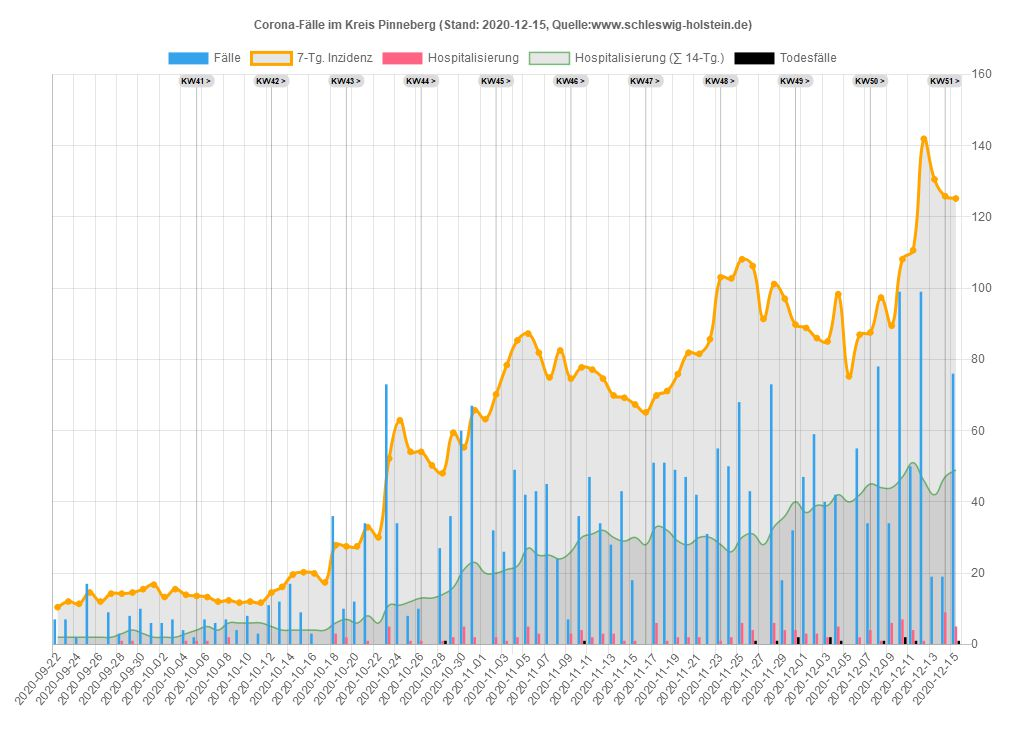
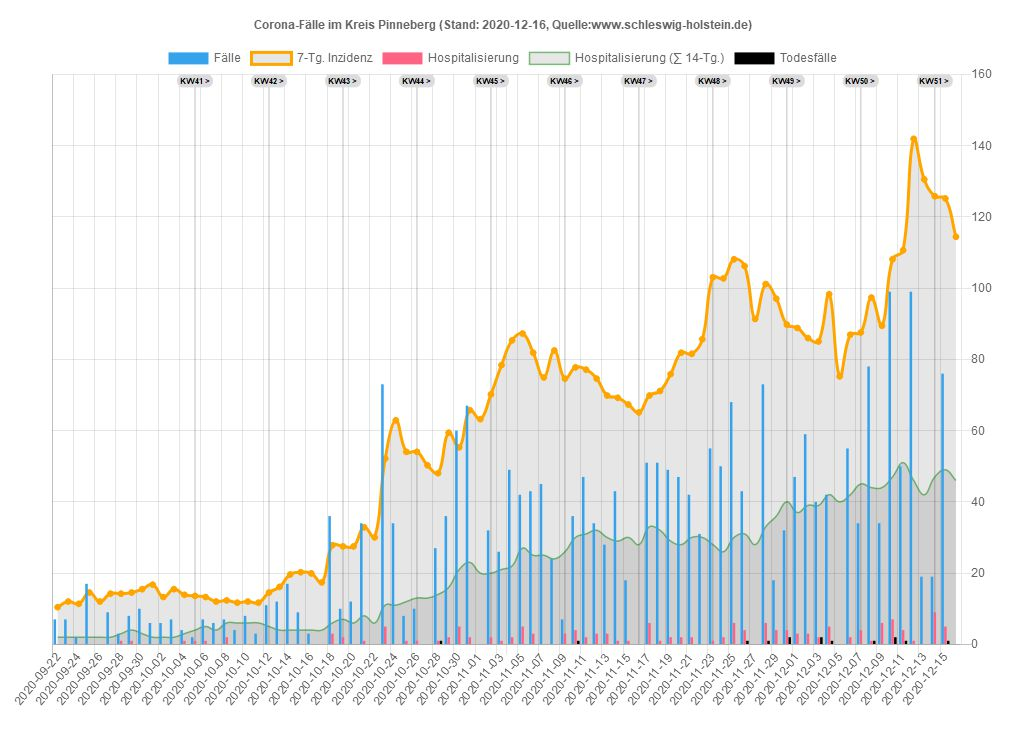
16.12.2020 21:26:17,47

diff --git a/sh/Data_SH.js b/sh/Data_SH.js
@@ -1,33 +1,33 @@
 var chdata={
-labels: ["2020-09-22","2020-09-23","2020-09-24","2020-09-25","2020-09-26","2020-09-27","2020-09-28","2020-09-29","2020-09-30","2020-10-01","2020-10-02","2020-10-03","2020-10-04","2020-10-05","2020-10-06","2020-10-07","2020-10-08","2020-10-09","2020-10-10","2020-10-11","2020-10-12","2020-10-13","2020-10-14","2020-10-15","2020-10-16","2020-10-17","2020-10-18","2020-10-19","2020-10-20","2020-10-21","2020-10-22","2020-10-23","2020-10-24","2020-10-25","2020-10-26","2020-10-27","2020-10-28","2020-10-29","2020-10-30","2020-10-31","2020-11-01","2020-11-02","2020-11-03","2020-11-04","2020-11-05","2020-11-06","2020-11-07","2020-11-08","2020-11-09","2020-11-10","2020-11-11","2020-11-12","2020-11-13","2020-11-14","2020-11-15","2020-11-16","2020-11-17","2020-11-18","2020-11-19","2020-11-20","2020-11-21","2020-11-22","2020-11-23","2020-11-24","2020-11-25","2020-11-26","2020-11-27","2020-11-28","2020-11-29","2020-11-30","2020-12-01","2020-12-02","2020-12-03","2020-12-04","2020-12-05","2020-12-06","2020-12-07","2020-12-08","2020-12-09","2020-12-10","2020-12-11","2020-12-12","2020-12-13","2020-12-14","2020-12-15"],
+labels: ["2020-09-22","2020-09-23","2020-09-24","2020-09-25","2020-09-26","2020-09-27","2020-09-28","2020-09-29","2020-09-30","2020-10-01","2020-10-02","2020-10-03","2020-10-04","2020-10-05","2020-10-06","2020-10-07","2020-10-08","2020-10-09","2020-10-10","2020-10-11","2020-10-12","2020-10-13","2020-10-14","2020-10-15","2020-10-16","2020-10-17","2020-10-18","2020-10-19","2020-10-20","2020-10-21","2020-10-22","2020-10-23","2020-10-24","2020-10-25","2020-10-26","2020-10-27","2020-10-28","2020-10-29","2020-10-30","2020-10-31","2020-11-01","2020-11-02","2020-11-03","2020-11-04","2020-11-05","2020-11-06","2020-11-07","2020-11-08","2020-11-09","2020-11-10","2020-11-11","2020-11-12","2020-11-13","2020-11-14","2020-11-15","2020-11-16","2020-11-17","2020-11-18","2020-11-19","2020-11-20","2020-11-21","2020-11-22","2020-11-23","2020-11-24","2020-11-25","2020-11-26","2020-11-27","2020-11-28","2020-11-29","2020-11-30","2020-12-01","2020-12-02","2020-12-03","2020-12-04","2020-12-05","2020-12-06","2020-12-07","2020-12-08","2020-12-09","2020-12-10","2020-12-11","2020-12-12","2020-12-13","2020-12-14","2020-12-15","2020-12-16"],
 datasets: [
 {label: 'Fälle',
 type: 'bar',
 backgroundColor: window.chartColors.blue,
-data: [38,42,63,53,15,15,38,48,49,27,50,16,24,39,54,45,79,54,26,25,65,65,65,55,90,26,88,163,111,160,136,236,142,115,164,164,280,215,313,265,161,142,236,262,220,274,233,177,215,252,247,192,296,158,161,100,294,208,264,250,153,121,145,251,256,225,180,219,71,81,244,240,245,318,234,154,183,314,297,529,384,472,140,241,486]},
+data: [38,42,63,53,15,15,38,48,49,27,50,16,24,39,54,45,79,54,26,25,65,65,65,55,90,26,88,163,111,160,136,236,142,115,164,164,280,215,313,265,161,142,236,262,220,274,233,177,215,252,247,192,296,158,161,100,294,208,264,250,153,121,145,251,256,225,180,219,71,81,244,240,245,318,234,154,183,314,297,529,384,472,140,241,486,322]},
 {label: '7-Tg. Inzidenz',
 type: 'line',
 pointBackgroundColor: 'orange',
 borderColor: 'orange',
-data: [7.23197027,7.88629139,8.74724023,9.40156135,9.33268544,9.16049567,9.09161977,9.4359993,9.67706498,8.43729865,8.33398478,8.36842274,8.67836432,8.71280227,8.91943,8.78167818,10.5724518,10.7102036,11.0545831,11.0890211,11.9844079,12.3632254,13.0519844,12.2254735,13.4652399,13.4652399,15.634831,19.0097504,20.5938963,23.8655019,26.6549761,31.6829174,35.67772,36.6075447,36.6419827,38.4671942,42.5997487,45.320347,47.9720694,52.2079377,53.7920836,53.0344486,55.5139813,54.8940981,55.0662879,53.7232077,52.6211932,53.1722004,55.6861711,56.2371783,55.720609,54.7563463,55.5139813,52.9311348,52.3801275,48.4197628,49.8661569,48.5230767,51.0026094,49.4184635,49.2462737,47.8687556,49.4184635,47.9376315,49.5906533,48.2475731,45.8369163,48.1098213,46.3879236,44.1838945,43.9428289,43.3918216,44.0805807,48.8330183,49.3495876,52.2079377,55.720609,58.1312658,60.0942291,69.874608,72.1475129,80.3437459,79.8616145,81.8590158,87.7823439]},
+data: [7.23197027,7.88629139,8.74724023,9.40156135,9.33268544,9.16049567,9.09161977,9.4359993,9.67706498,8.43729865,8.33398478,8.36842274,8.67836432,8.71280227,8.91943,8.78167818,10.5724518,10.7102036,11.0545831,11.0890211,11.9844079,12.3632254,13.0519844,12.2254735,13.4652399,13.4652399,15.634831,19.0097504,20.5938963,23.8655019,26.6549761,31.6829174,35.67772,36.6075447,36.6419827,38.4671942,42.5997487,45.320347,47.9720694,52.2079377,53.7920836,53.0344486,55.5139813,54.8940981,55.0662879,53.7232077,52.6211932,53.1722004,55.6861711,56.2371783,55.720609,54.7563463,55.5139813,52.9311348,52.3801275,48.4197628,49.8661569,48.5230767,51.0026094,49.4184635,49.2462737,47.8687556,49.4184635,47.9376315,49.5906533,48.2475731,45.8369163,48.1098213,46.3879236,44.1838945,43.9428289,43.3918216,44.0805807,48.8330183,49.3495876,52.2079377,55.720609,58.1312658,60.0942291,69.874608,72.1475129,80.3437459,79.8616145,81.8590158,87.7823439,88.6432927]},
 {label: 'Hospitalisierung',
 type: 'bar',
 backgroundColor: window.chartColors.red,
-data: [1,2,7,1,0,0,2,1,3,1,1,0,4,3,1,1,4,2,0,3,5,1,1,2,4,0,9,10,8,9,12,7,5,6,7,7,11,10,11,6,3,9,19,20,15,15,5,7,13,15,21,13,17,8,17,13,23,10,15,9,7,7,13,16,26,19,12,14,15,10,12,8,10,14,3,5,24,13,26,20,14,12,6,26,27]},
+data: [1,2,7,1,0,0,2,1,3,1,1,0,4,3,1,1,4,2,0,3,5,1,1,2,4,0,9,10,8,9,12,7,5,6,7,7,11,10,11,6,3,9,19,20,15,15,5,7,13,15,21,13,17,8,17,13,23,10,15,9,7,7,13,16,26,19,12,14,15,10,12,8,10,14,3,5,24,13,26,20,14,12,6,26,27,16]},
 {label: 'Hosp. (∑ 14-Tg.)',
 type: 'line',
 borderColor: 'rgba(0,255,0,0.5)',
 borderWidth: 1.5,
 pointRadius: 0,
-data: [12,12,20,22,22,22,22,23,23,21,22,21,24,26,26,25,22,23,23,26,29,29,27,28,31,31,36,43,50,58,66,71,76,79,81,87,97,105,112,118,112,111,122,133,136,144,144,145,151,159,169,172,178,180,194,198,202,192,192,186,188,188,188,189,194,200,195,201,199,196,185,183,178,183,179,177,188,185,185,186,188,186,177,193,208]},
+data: [12,12,20,22,22,22,22,23,23,21,22,21,24,26,26,25,22,23,23,26,29,29,27,28,31,31,36,43,50,58,66,71,76,79,81,87,97,105,112,118,112,111,122,133,136,144,144,145,151,159,169,172,178,180,194,198,202,192,192,186,188,188,188,189,194,200,195,201,199,196,185,183,178,183,179,177,188,185,185,186,188,186,177,193,208,216]},
 {label: 'Aktuell im Krankenhaus',
 type: 'line',
 pointBackgroundColor: 'green',
 borderColor: 'green',
-data: [6,6,6,6,6,6,6,11,11,11,11,14,14,15,15,14,14,14,13,13,18,18,18,21,24,24,24,24,31,31,31,31,51,51,58,58,58,58,58,58,58,94,110,114,119,118,124,120,126,116,113,119,112,116,116,148,145,151,141,141,141,141,155,142,122,113,118,118,118,124,114,110,109,114,114,114,131,122,128,132,133,133,133,177,181]},
+data: [6,6,6,6,6,6,6,11,11,11,11,14,14,15,15,14,14,14,13,13,18,18,18,21,24,24,24,24,31,31,31,31,51,51,58,58,58,58,58,58,58,94,110,114,119,118,124,120,126,116,113,119,112,116,116,148,145,151,141,141,141,141,155,142,122,113,118,118,118,124,114,110,109,114,114,114,131,122,128,132,133,133,133,177,181,194]},
 {label: 'Todesfälle',
 type: 'bar',
 backgroundColor: 'black',
-data: [0,0,0,0,0,0,0,1,0,0,0,0,0,0,0,0,0,0,0,0,0,1,0,0,0,0,0,0,0,0,1,0,0,3,0,0,3,4,1,0,2,6,7,2,2,6,0,1,4,3,5,0,5,1,3,5,0,2,2,2,1,0,3,4,1,3,3,1,4,2,3,1,4,1,0,1,4,2,5,7,7,1,2,2,6]},
+data: [0,0,0,0,0,0,0,1,0,0,0,0,0,0,0,0,0,0,0,0,0,1,0,0,0,0,0,0,0,0,1,0,0,3,0,0,3,4,1,0,2,6,7,2,2,6,0,1,4,3,5,0,5,1,3,5,0,2,2,2,1,0,3,4,1,3,3,1,4,2,3,1,4,1,0,1,4,2,5,7,7,1,2,2,6,7]},
 ]};
 

diff --git a/sh/Data_SH_Alter.js b/sh/Data_SH_Alter.js
@@ -95,7 +95,8 @@ var chdata={
 				{x: '2020-12-12', y: 'Alle', v: 79.9304904, casesum: 2321},{x: '2020-12-12', y: '00-09', v: 48.6908017, casesum: 125},{x: '2020-12-12', y: '10-19', v: 103.258251, casesum: 285},{x: '2020-12-12', y: '20-29', v: 108.450378, casesum: 347},{x: '2020-12-12', y: '30-39', v: 95.8079556, casesum: 322},{x: '2020-12-12', y: '40-49', v: 87.949999, casesum: 310},{x: '2020-12-12', y: '50-59', v: 76.5036809, casesum: 379},{x: '2020-12-12', y: '60-69', v: 47.5889198, casesum: 173},{x: '2020-12-12', y: '70-79', v: 37.8466602, casesum: 112},{x: '2020-12-12', y: '80-89', v: 100.088346, casesum: 179},{x: '2020-12-12', y: '90+', v: 308.856191, casesum: 89},
 				{x: '2020-12-13', y: 'Alle', v: 79.5861109, casesum: 2311},{x: '2020-12-13', y: '00-09', v: 47.5222225, casesum: 122},{x: '2020-12-13', y: '10-19', v: 99.6351542, casesum: 275},{x: '2020-12-13', y: '20-29', v: 111.57575, casesum: 357},{x: '2020-12-13', y: '30-39', v: 96.1054959, casesum: 323},{x: '2020-12-13', y: '40-49', v: 89.6522571, casesum: 316},{x: '2020-12-13', y: '50-59', v: 76.3018242, casesum: 378},{x: '2020-12-13', y: '60-69', v: 45.3882761, casesum: 165},{x: '2020-12-13', y: '70-79', v: 37.8466602, casesum: 112},{x: '2020-12-13', y: '80-89', v: 97.2925823, casesum: 174},{x: '2020-12-13', y: '90+', v: 308.856191, casesum: 89},
 				{x: '2020-12-14', y: 'Alle', v: 81.5146363, casesum: 2367},{x: '2020-12-14', y: '00-09', v: 47.5222225, casesum: 122},{x: '2020-12-14', y: '10-19', v: 98.1859156, casesum: 271},{x: '2020-12-14', y: '20-29', v: 112.200824, casesum: 359},{x: '2020-12-14', y: '30-39', v: 103.544002, casesum: 348},{x: '2020-12-14', y: '40-49', v: 89.9359667, casesum: 317},{x: '2020-12-14', y: '50-59', v: 77.3111076, casesum: 383},{x: '2020-12-14', y: '60-69', v: 47.0387588, casesum: 171},{x: '2020-12-14', y: '70-79', v: 41.9016595, casesum: 124},{x: '2020-12-14', y: '80-89', v: 98.9700406, casesum: 177},{x: '2020-12-14', y: '90+', v: 329.677957, casesum: 95},
-				{x: '2020-12-15', y: 'Alle', v: 87.5412782, casesum: 2542},{x: '2020-12-15', y: '00-09', v: 56.0918036, casesum: 144},{x: '2020-12-15', y: '10-19', v: 105.432109, casesum: 291},{x: '2020-12-15', y: '20-29', v: 119.701715, casesum: 383},{x: '2020-12-15', y: '30-39', v: 107.709565, casesum: 362},{x: '2020-12-15', y: '40-49', v: 99.8658053, casesum: 352},{x: '2020-12-15', y: '50-59', v: 83.5686646, casesum: 414},{x: '2020-12-15', y: '60-69', v: 51.9902071, casesum: 189},{x: '2020-12-15', y: '70-79', v: 41.2258263, casesum: 122},{x: '2020-12-15', y: '80-89', v: 100.088346, casesum: 179},{x: '2020-12-15', y: '90+', v: 367.851194, casesum: 106}
+				{x: '2020-12-15', y: 'Alle', v: 87.5412782, casesum: 2542},{x: '2020-12-15', y: '00-09', v: 56.0918036, casesum: 144},{x: '2020-12-15', y: '10-19', v: 105.432109, casesum: 291},{x: '2020-12-15', y: '20-29', v: 119.701715, casesum: 383},{x: '2020-12-15', y: '30-39', v: 107.709565, casesum: 362},{x: '2020-12-15', y: '40-49', v: 99.8658053, casesum: 352},{x: '2020-12-15', y: '50-59', v: 83.5686646, casesum: 414},{x: '2020-12-15', y: '60-69', v: 51.9902071, casesum: 189},{x: '2020-12-15', y: '70-79', v: 41.2258263, casesum: 122},{x: '2020-12-15', y: '80-89', v: 100.088346, casesum: 179},{x: '2020-12-15', y: '90+', v: 367.851194, casesum: 106},
+				{x: '2020-12-16', y: 'Alle', v: 87.4035264, casesum: 2538},{x: '2020-12-16', y: '00-09', v: 57.2603828, casesum: 147},{x: '2020-12-16', y: '10-19', v: 102.895941, casesum: 284},{x: '2020-12-16', y: '20-29', v: 121.576937, casesum: 389},{x: '2020-12-16', y: '30-39', v: 107.412025, casesum: 361},{x: '2020-12-16', y: '40-49', v: 97.5961279, casesum: 344},{x: '2020-12-16', y: '50-59', v: 85.183518, casesum: 422},{x: '2020-12-16', y: '60-69', v: 52.8154485, casesum: 192},{x: '2020-12-16', y: '70-79', v: 41.2258263, casesum: 122},{x: '2020-12-16', y: '80-89', v: 101.206652, casesum: 181},{x: '2020-12-16', y: '90+', v: 333.148251, casesum: 96}
 			],
 			backgroundColor: function(context) {
 				return inzColor(context.dataset.data[context.dataIndex].v)
@@ -103,7 +104,7 @@ var chdata={
 			width: function(context) {
 				const a = context.chart.chartArea
 				if (!a) return 0
-				return (a.right - a.left) / 92.5
+				return (a.right - a.left) / 93.5
 			},
 			height: function(context) {
 				const a = context.chart.chartArea
@@ -115,7 +116,7 @@ var chdata={
 	options: {
 		legend: { display: false },
 		scales: {
-			xAxes: [{type: 'category', labels: ["2020-09-15","2020-09-16","2020-09-17","2020-09-18","2020-09-19","2020-09-20","2020-09-21","2020-09-22","2020-09-23","2020-09-24","2020-09-25","2020-09-26","2020-09-27","2020-09-28","2020-09-29","2020-09-30","2020-10-01","2020-10-02","2020-10-03","2020-10-04","2020-10-05","2020-10-06","2020-10-07","2020-10-08","2020-10-09","2020-10-10","2020-10-11","2020-10-12","2020-10-13","2020-10-14","2020-10-15","2020-10-16","2020-10-17","2020-10-18","2020-10-19","2020-10-20","2020-10-21","2020-10-22","2020-10-23","2020-10-24","2020-10-25","2020-10-26","2020-10-27","2020-10-28","2020-10-29","2020-10-30","2020-10-31","2020-11-01","2020-11-02","2020-11-03","2020-11-04","2020-11-05","2020-11-06","2020-11-07","2020-11-08","2020-11-09","2020-11-10","2020-11-11","2020-11-12","2020-11-13","2020-11-14","2020-11-15","2020-11-16","2020-11-17","2020-11-18","2020-11-19","2020-11-20","2020-11-21","2020-11-22","2020-11-23","2020-11-24","2020-11-25","2020-11-26","2020-11-27","2020-11-28","2020-11-29","2020-11-30","2020-12-01","2020-12-02","2020-12-03","2020-12-04","2020-12-05","2020-12-06","2020-12-07","2020-12-08","2020-12-09","2020-12-10","2020-12-11","2020-12-12","2020-12-13","2020-12-14","2020-12-15",], ticks: {display: true},gridlines:{display:false}}],
+			xAxes: [{type: 'category', labels: ["2020-09-15","2020-09-16","2020-09-17","2020-09-18","2020-09-19","2020-09-20","2020-09-21","2020-09-22","2020-09-23","2020-09-24","2020-09-25","2020-09-26","2020-09-27","2020-09-28","2020-09-29","2020-09-30","2020-10-01","2020-10-02","2020-10-03","2020-10-04","2020-10-05","2020-10-06","2020-10-07","2020-10-08","2020-10-09","2020-10-10","2020-10-11","2020-10-12","2020-10-13","2020-10-14","2020-10-15","2020-10-16","2020-10-17","2020-10-18","2020-10-19","2020-10-20","2020-10-21","2020-10-22","2020-10-23","2020-10-24","2020-10-25","2020-10-26","2020-10-27","2020-10-28","2020-10-29","2020-10-30","2020-10-31","2020-11-01","2020-11-02","2020-11-03","2020-11-04","2020-11-05","2020-11-06","2020-11-07","2020-11-08","2020-11-09","2020-11-10","2020-11-11","2020-11-12","2020-11-13","2020-11-14","2020-11-15","2020-11-16","2020-11-17","2020-11-18","2020-11-19","2020-11-20","2020-11-21","2020-11-22","2020-11-23","2020-11-24","2020-11-25","2020-11-26","2020-11-27","2020-11-28","2020-11-29","2020-11-30","2020-12-01","2020-12-02","2020-12-03","2020-12-04","2020-12-05","2020-12-06","2020-12-07","2020-12-08","2020-12-09","2020-12-10","2020-12-11","2020-12-12","2020-12-13","2020-12-14","2020-12-15","2020-12-16",], ticks: {display: true},gridlines:{display:false}}],
 			yAxes: [{type: 'category', labels: ["Alle","00-09","10-19","20-29","30-39","40-49","50-59","60-69","70-79","80-89","90+"], offset:true, ticks: {display: true},gridlines:{display:false}}],
 		},
 	}

diff --git a/sh/Kreis_PI.js b/sh/Kreis_PI.js
@@ -1,33 +1,33 @@
 var chdata={
-labels: ["2020-09-22","2020-09-23","2020-09-24","2020-09-25","2020-09-26","2020-09-27","2020-09-28","2020-09-29","2020-09-30","2020-10-01","2020-10-02","2020-10-03","2020-10-04","2020-10-05","2020-10-06","2020-10-07","2020-10-08","2020-10-09","2020-10-10","2020-10-11","2020-10-12","2020-10-13","2020-10-14","2020-10-15","2020-10-16","2020-10-17","2020-10-18","2020-10-19","2020-10-20","2020-10-21","2020-10-22","2020-10-23","2020-10-24","2020-10-25","2020-10-26","2020-10-27","2020-10-28","2020-10-29","2020-10-30","2020-10-31","2020-11-01","2020-11-02","2020-11-03","2020-11-04","2020-11-05","2020-11-06","2020-11-07","2020-11-08","2020-11-09","2020-11-10","2020-11-11","2020-11-12","2020-11-13","2020-11-14","2020-11-15","2020-11-16","2020-11-17","2020-11-18","2020-11-19","2020-11-20","2020-11-21","2020-11-22","2020-11-23","2020-11-24","2020-11-25","2020-11-26","2020-11-27","2020-11-28","2020-11-29","2020-11-30","2020-12-01","2020-12-02","2020-12-03","2020-12-04","2020-12-05","2020-12-06","2020-12-07","2020-12-08","2020-12-09","2020-12-10","2020-12-11","2020-12-12","2020-12-13","2020-12-14","2020-12-15"],
+labels: ["2020-09-22","2020-09-23","2020-09-24","2020-09-25","2020-09-26","2020-09-27","2020-09-28","2020-09-29","2020-09-30","2020-10-01","2020-10-02","2020-10-03","2020-10-04","2020-10-05","2020-10-06","2020-10-07","2020-10-08","2020-10-09","2020-10-10","2020-10-11","2020-10-12","2020-10-13","2020-10-14","2020-10-15","2020-10-16","2020-10-17","2020-10-18","2020-10-19","2020-10-20","2020-10-21","2020-10-22","2020-10-23","2020-10-24","2020-10-25","2020-10-26","2020-10-27","2020-10-28","2020-10-29","2020-10-30","2020-10-31","2020-11-01","2020-11-02","2020-11-03","2020-11-04","2020-11-05","2020-11-06","2020-11-07","2020-11-08","2020-11-09","2020-11-10","2020-11-11","2020-11-12","2020-11-13","2020-11-14","2020-11-15","2020-11-16","2020-11-17","2020-11-18","2020-11-19","2020-11-20","2020-11-21","2020-11-22","2020-11-23","2020-11-24","2020-11-25","2020-11-26","2020-11-27","2020-11-28","2020-11-29","2020-11-30","2020-12-01","2020-12-02","2020-12-03","2020-12-04","2020-12-05","2020-12-06","2020-12-07","2020-12-08","2020-12-09","2020-12-10","2020-12-11","2020-12-12","2020-12-13","2020-12-14","2020-12-15","2020-12-16"],
 datasets: [
 {label: 'Fälle',
 type: 'bar',
 backgroundColor: window.chartColors.blue,
 yAxisID: 'first-y-axis',
-data: [7,7,2,17,0,9,3,8,10,6,6,7,4,2,7,6,7,4,8,3,11,12,17,9,3,0,36,10,12,34,0,73,34,8,10,0,27,36,60,67,0,32,26,49,42,43,45,24,7,36,47,34,28,43,18,0,51,51,49,47,42,31,55,50,68,43,0,73,18,32,47,59,40,42,0,55,34,78,34,99,50,99,19,19,76]},
+data: [7,7,2,17,0,9,3,8,10,6,6,7,4,2,7,6,7,4,8,3,11,12,17,9,3,0,36,10,12,34,0,73,34,8,10,0,27,36,60,67,0,32,26,49,42,43,45,24,7,36,47,34,28,43,18,0,51,51,49,47,42,31,55,50,68,43,0,73,18,32,47,59,40,42,0,55,34,78,34,99,50,99,19,19,76,0]},
 {label: '7-Tg. Inzidenz',
 type: 'line',
 pointBackgroundColor: 'orange',
 borderColor: 'orange',
 yAxisID: 'first-y-axis',
-data: [10.4300994,12.0104175,11.3782902,14.5389264,12.0104175,14.2228628,14.2228628,14.5389264,15.4871172,16.7513717,13.2746719,15.4871172,13.9067992,13.5907355,13.2746719,12.0104175,12.3264811,11.6943538,12.0104175,11.6943538,14.5389264,16.1192445,19.5959443,20.2280715,19.9120079,17.383499,27.8135983,27.4975347,27.4975347,32.8706162,30.0260436,52.1504969,62.8966598,54.0468786,54.0468786,50.2541151,48.0416698,59.41996,55.311133,65.7412324,63.2127235,70.166123,78.3837771,85.3371767,87.2335584,81.8604769,74.9070773,82.4926041,74.5910137,77.7516499,77.1195226,74.5910137,69.8500594,69.2179322,67.3215505,65.1091052,69.8500594,71.1143139,75.8552681,81.8604769,81.5444133,85.6532403,103.036739,102.720676,108.093757,106.197375,91.3423854,101.140358,97.0315305,89.7620673,88.8138765,85.9693039,85.021113,98.295785,75.2231409,86.9174948,87.549622,97.3475941,89.4460037,108.093757,110.622266,141.912564,130.534274,125.79332,125.161192]},
+data: [10.4300994,12.0104175,11.3782902,14.5389264,12.0104175,14.2228628,14.2228628,14.5389264,15.4871172,16.7513717,13.2746719,15.4871172,13.9067992,13.5907355,13.2746719,12.0104175,12.3264811,11.6943538,12.0104175,11.6943538,14.5389264,16.1192445,19.5959443,20.2280715,19.9120079,17.383499,27.8135983,27.4975347,27.4975347,32.8706162,30.0260436,52.1504969,62.8966598,54.0468786,54.0468786,50.2541151,48.0416698,59.41996,55.311133,65.7412324,63.2127235,70.166123,78.3837771,85.3371767,87.2335584,81.8604769,74.9070773,82.4926041,74.5910137,77.7516499,77.1195226,74.5910137,69.8500594,69.2179322,67.3215505,65.1091052,69.8500594,71.1143139,75.8552681,81.8604769,81.5444133,85.6532403,103.036739,102.720676,108.093757,106.197375,91.3423854,101.140358,97.0315305,89.7620673,88.8138765,85.9693039,85.021113,98.295785,75.2231409,86.9174948,87.549622,97.3475941,89.4460037,108.093757,110.622266,141.912564,130.534274,125.79332,125.161192,114.415029]},
 {label: 'Hospitalisierung',
 type: 'bar',
 backgroundColor: window.chartColors.red,
 yAxisID: 'first-y-axis',
-data: [0,0,0,0,0,0,1,1,0,0,0,0,1,1,1,-1,2,0,0,0,0,0,0,0,0,0,3,2,0,1,0,5,0,1,1,0,1,2,5,2,0,2,1,2,5,3,0,0,3,4,2,3,3,1,1,0,6,1,2,2,2,0,1,2,6,4,0,6,4,4,3,3,2,5,0,2,4,1,6,7,4,1,0,9,5]},
+data: [0,0,0,0,0,0,1,1,0,0,0,0,1,1,1,-1,2,0,0,0,0,0,0,0,0,0,3,2,0,1,0,5,0,1,1,0,1,2,5,2,0,2,1,2,5,3,0,0,3,4,2,3,3,1,1,0,6,1,2,2,2,0,1,2,6,4,0,6,4,4,3,3,2,5,0,2,4,1,6,7,4,1,0,9,5,0]},
 {label: 'Hospitalisierung (∑ 14-Tg.)',
 type: 'line',
 pointRadius: 0,
 borderColor: 'rgba(0,128,0,0.5)',
 borderWidth: 1.5,
 yAxisID: 'first-y-axis',
-data: [2,2,2,2,2,2,3,4,3,2,2,2,3,4,5,4,6,6,6,6,5,4,4,4,4,4,6,7,6,8,6,11,11,12,13,13,14,16,21,23,20,20,21,22,27,25,25,24,26,30,31,32,30,29,30,28,33,32,29,28,30,30,28,26,30,31,28,33,36,40,37,39,39,42,40,42,45,44,44,47,51,46,42,47,49]},
+data: [2,2,2,2,2,2,3,4,3,2,2,2,3,4,5,4,6,6,6,6,5,4,4,4,4,4,6,7,6,8,6,11,11,12,13,13,14,16,21,23,20,20,21,22,27,25,25,24,26,30,31,32,30,29,30,28,33,32,29,28,30,30,28,26,30,31,28,33,36,40,37,39,39,42,40,42,45,44,44,47,51,46,42,47,49,46]},
 {label: 'Todesfälle',
 type: 'bar',
 backgroundColor: 'black',
 yAxisID: 'first-y-axis',
-data: [0,0,0,0,0,0,0,0,0,0,0,0,0,0,0,0,0,0,0,0,0,0,0,0,0,0,0,0,0,0,0,0,0,0,0,0,1,0,0,0,0,0,0,0,0,0,0,0,0,1,0,0,0,0,0,0,0,0,0,0,0,0,0,0,0,1,0,1,0,2,0,0,2,1,0,0,0,1,0,2,1,0,0,0,1]},
+data: [0,0,0,0,0,0,0,0,0,0,0,0,0,0,0,0,0,0,0,0,0,0,0,0,0,0,0,0,0,0,0,0,0,0,0,0,1,0,0,0,0,0,0,0,0,0,0,0,0,1,0,0,0,0,0,0,0,0,0,0,0,0,0,0,0,1,0,1,0,2,0,0,2,1,0,0,0,1,0,2,1,0,0,0,1,0]},
 ]};
 

diff --git a/sh/index_sh_alter.html b/sh/index_sh_alter.html
@@ -5,7 +5,7 @@
 <meta property="og:image" content="index_sh_alter.jpg" />
 <meta property="og:type" content="website" />
 <meta property="og:locale" content="de_DE" />
-<meta property="og:updated_time" content="2020-12-16T15:42:52+01:00" />
+<meta property="og:updated_time" content="2020-12-16T21:26:16+01:00" />
 <title>Altersverteilung der Corona-Fälle in Schleswig-Holstein</title>
 <link rel="stylesheet" href="../css/style.css" media="screen" type="text/css">
 <link rel="stylesheet" media="screen" href="Chart.min.css"> 

diff --git a/sh/index_pi_alter.html b/sh/index_pi_alter.html
@@ -5,7 +5,7 @@
 <meta property="og:image" content="index_pi_alter.jpg" />
 <meta property="og:type" content="website" />
 <meta property="og:locale" content="de_DE" />
-<meta property="og:updated_time" content="2020-12-16T15:42:52+01:00" />
+<meta property="og:updated_time" content="2020-12-16T21:26:16+01:00" />
 <title>Altersverteilung der Corona-Fälle im Kreis Pinneberg</title>
 <link rel="stylesheet" href="../css/style.css" media="screen" type="text/css">
 <link rel="stylesheet" media="screen" href="Chart.min.css"> 

diff --git a/sh/index.html b/sh/index.html
@@ -5,7 +5,7 @@
 <meta property="og:image" content="index.jpg" />
 <meta property="og:type" content="website" />
 <meta property="og:locale" content="de_DE" />
-<meta property="og:updated_time" content="2020-12-16T15:42:52+01:00" />
+<meta property="og:updated_time" content="2020-12-16T21:26:16+01:00" />
 <title>Corona-Fälle im Kreis Pinneberg</title>
 <link rel="stylesheet" href="../css/style.css" media="screen" type="text/css">
 <link rel="stylesheet" media="screen" href="Chart.min.css"> 
